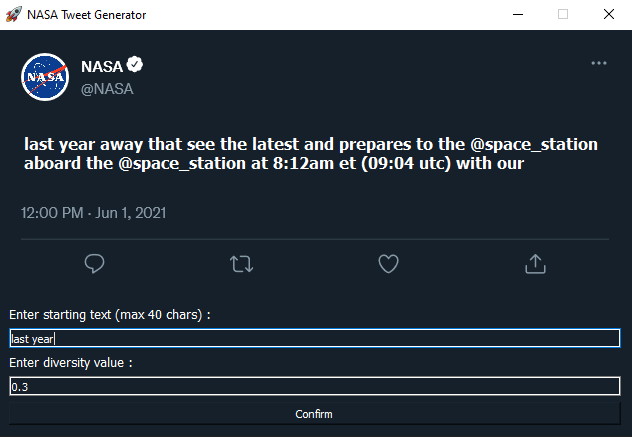
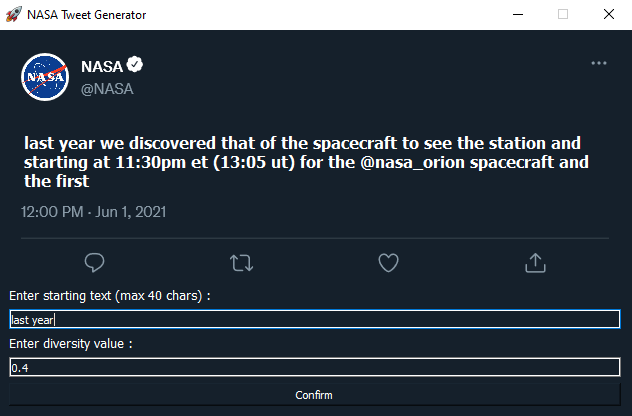
Added example image of program

diff --git a/README.md b/README.md
@@ -7,6 +7,10 @@
 </center>
 
 #
+<center>
+    <img src="src/assets/example.png" alt="Example of Program">
+</center>
+
 
 # Technologies used
 
